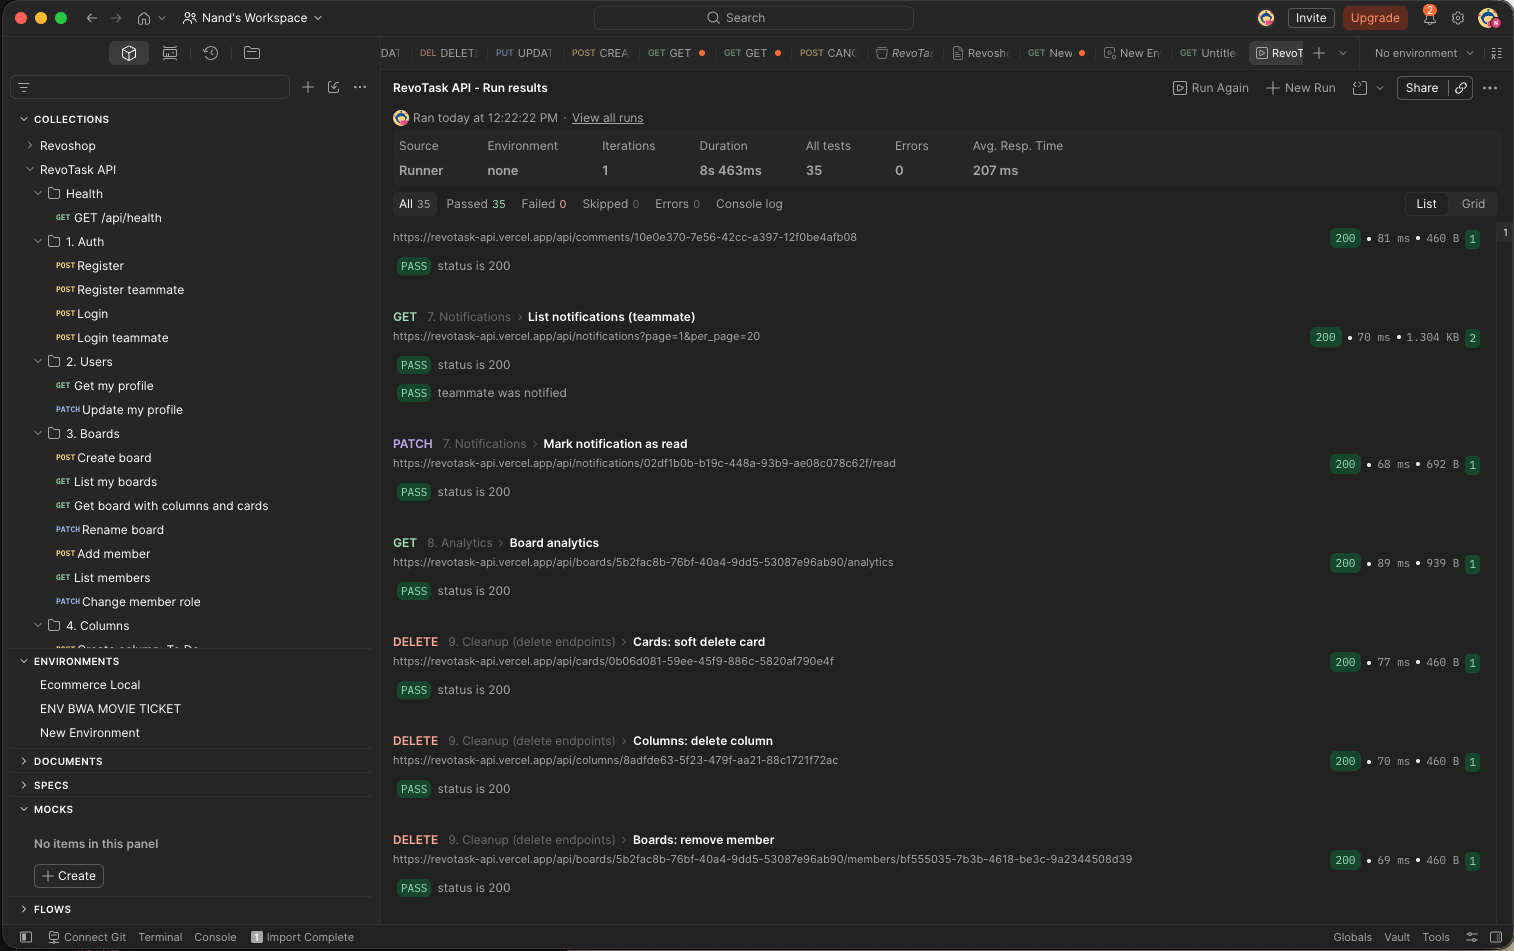
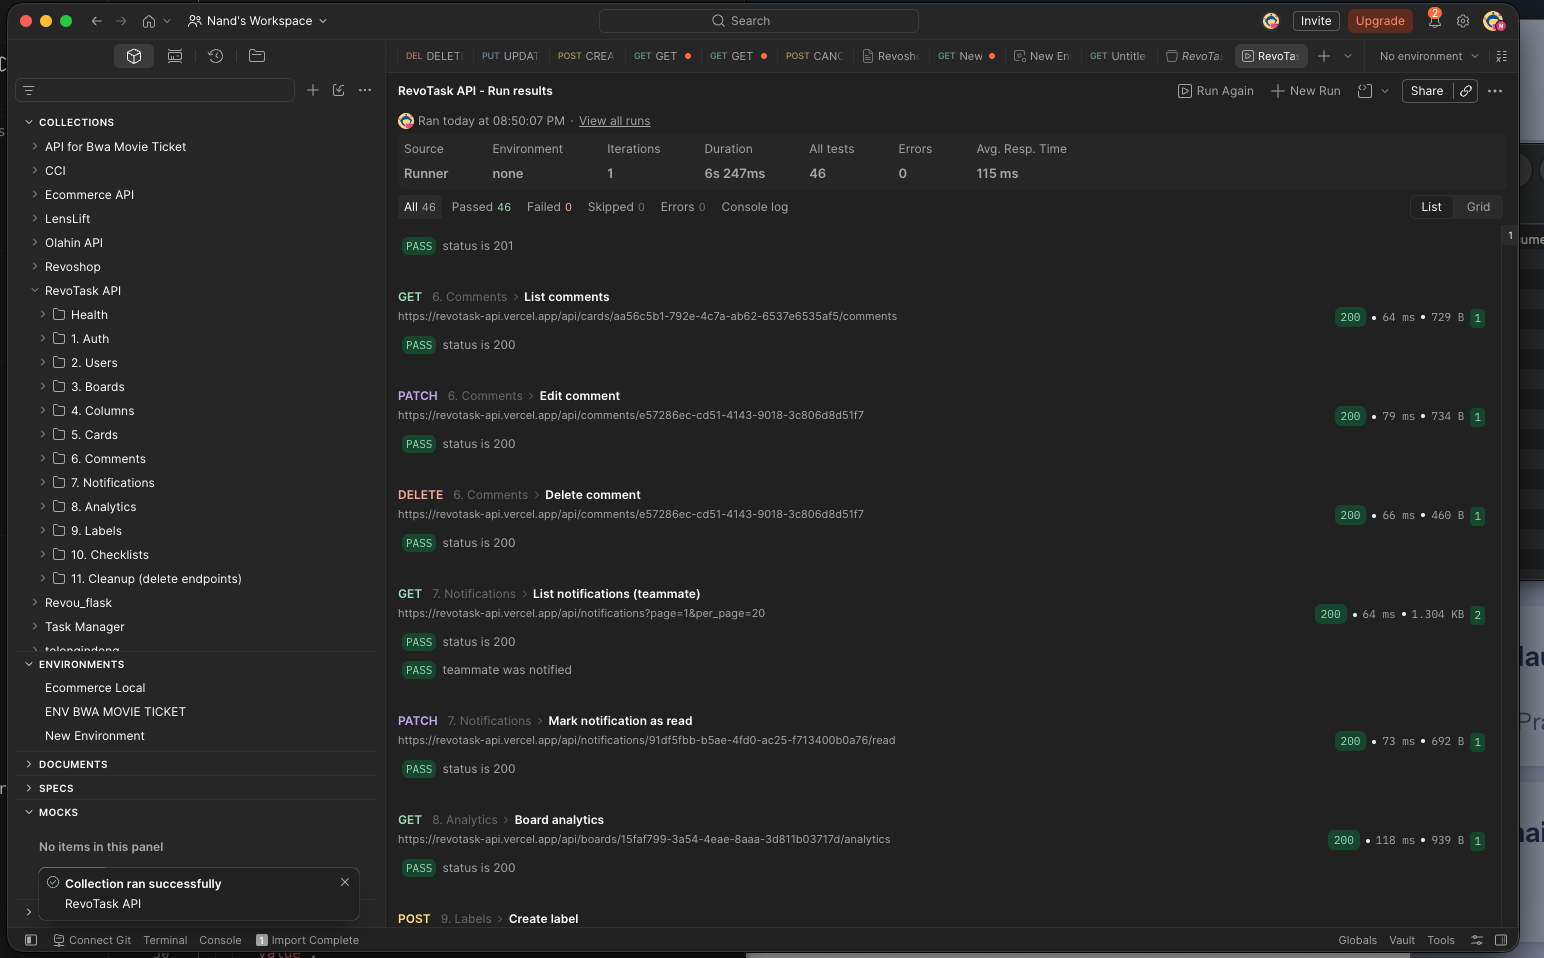
docs: update Postman run screenshot with all ten blueprints

diff --git a/README.md b/README.md
@@ -167,7 +167,7 @@ Without the two variables it runs against `http://localhost:3000` and `http://lo
 
 Import [`docs/postman/RevoTask.postman_collection.json`](docs/postman/RevoTask.postman_collection.json) into Postman and run the collection. It has one folder per blueprint and covers all 37 endpoints. It points at the production API; change the `baseUrl` variable to test a local one.
 
-Run against production, every test passed:
+Run against production, 46 of 46 tests passed, with all ten blueprint folders in the sidebar:
 
 ![Postman run results](docs/screenshots/07-postman.png)
 
